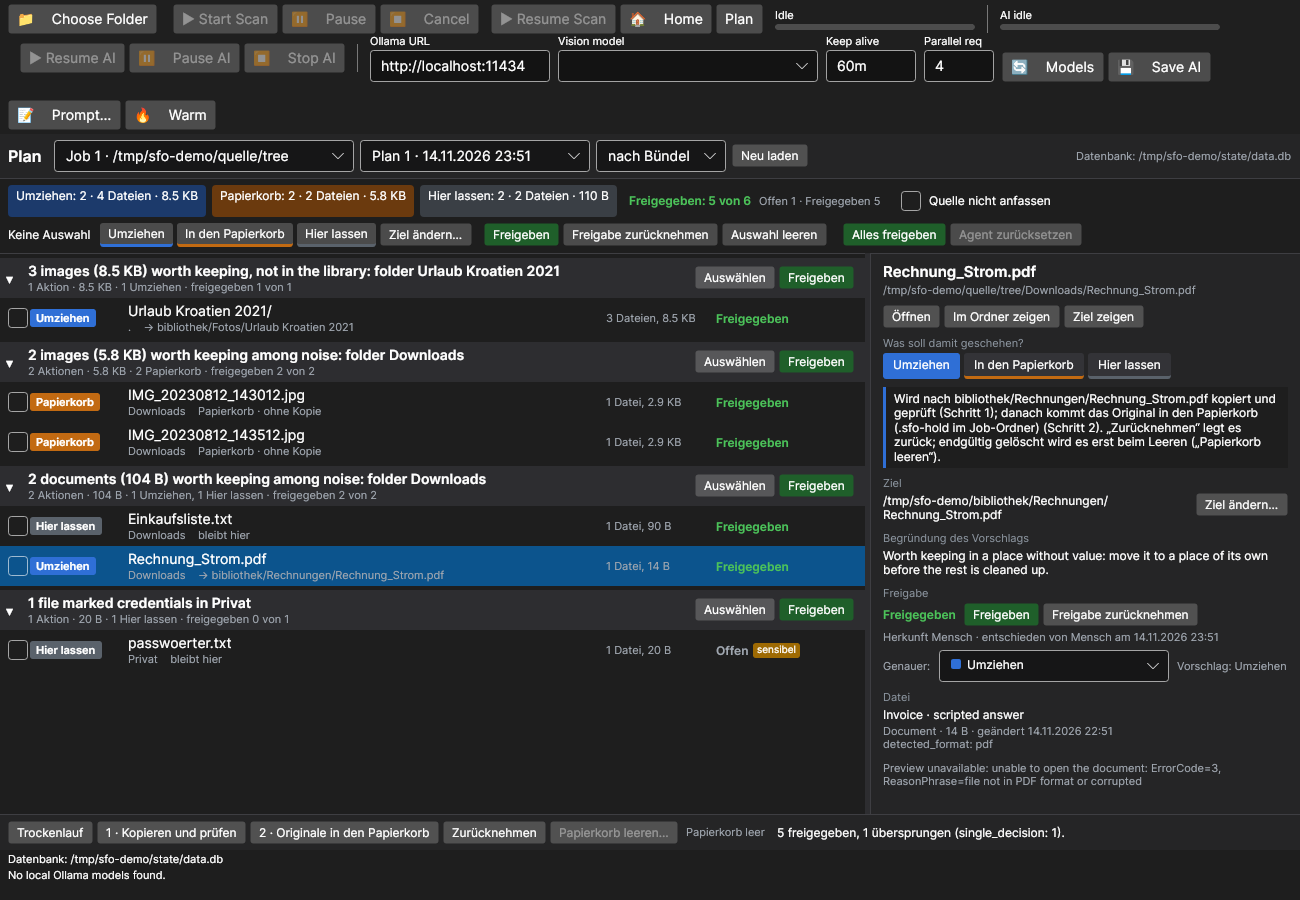
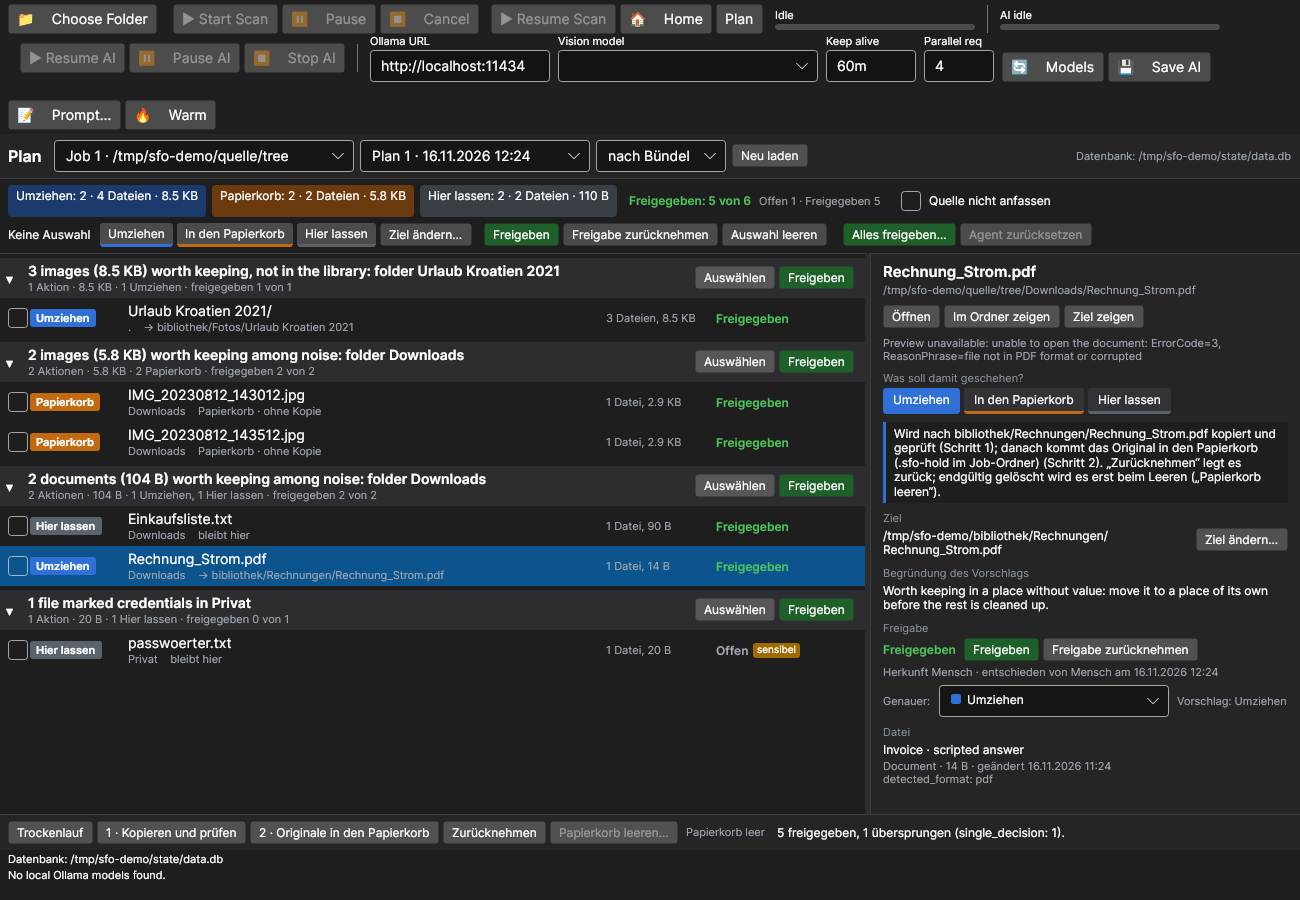
Docs: preview format table, why no built-in player, screenshots of #109
The format table says what each format shows and what it needs, so the
next reader does not have to read PreviewFormats to know why a file has
no preview. The player decision records the measured package sizes it
rests on. The screenshots of the plan view are taken again because the
preview moved up under "Öffnen".

Refs #109

diff --git a/docs/architecture.md b/docs/architecture.md
@@ -98,12 +98,37 @@ Other options: `AppSettingsDirectory` (where the shipped `appsettings.json` defa
 
 ## Preview flow
 
-`FileContentExtractor` (Infrastructure) reads the content once, without UI types; `FilePreviewService` (Desktop) only decodes the returned image bytes into an Avalonia bitmap. Preview and model input therefore come from the same code.
+`FileContentExtractor` (Infrastructure) reads the content once, without UI types; `FilePreviewService` (Desktop) only decodes the returned image bytes into Avalonia bitmaps and makes the filmstrip of a video. Preview and model input therefore come from the same code.
 
-- images: original file bytes
-- PDFs: page 1 rendered via Docnet/PDFium with a white background, encoded as PNG by a small built-in encoder
-- `.docx`, `.xlsx`, `.pptx`, `.odt`, `.ods`: text extracted from the package XML
-- text-like files: truncated text excerpt (12,000 characters)
+Which reader runs is decided by `PreviewFormats.Decide` (since 16.11.2026,
+[#109](https://github.com/crack666/smart_file_organizer/issues/109)): the format the first bytes show
+(`FileSignature`, the code behind the fact `detected_format`) where it decides, else a complete extension list. A
+decodable image format wins over the extension; a ZIP or OLE container goes by its extension (a `.docx` is a ZIP).
+Until then the scan type of the extension and a short list decided, so `.jfif` (no image type), `.doc` (no reader),
+`.rtf`, `.odp`, `.docm`/`.xlsm`/`.pptm` and archives got the line "No built-in preview for this file type yet".
+
+| Format | Preview | Needs |
+|---|---|---|
+| JPEG (`.jpg` `.jpeg` `.jpe` `.jfif`), PNG, GIF (first frame), BMP, WebP, ICO | the image | nothing |
+| TIFF, HEIC/HEIF, AVIF, camera raw (`.cr2` `.nef` `.arw` `.dng` …), PSD | hint "Kein Bild: … kann die Vorschau nicht zeichnen" and "Öffnen" | the default program |
+| PDF | page 1 rendered | PDFium (Docnet.Core, shipped) |
+| `.docx` `.docm` `.xlsx` `.xlsm` `.pptx` `.pptm` `.odt` `.ods` `.odp` | text from the package XML | nothing |
+| `.doc` `.dot` (Word 97-2003) | text from the piece table (`LegacyWordReader`), no pictures or layout; encrypted or damaged: hint | nothing; files up to 64 MB |
+| `.xls` `.ppt` `.pps` `.msg` (other legacy Office) | hint "altes Office-Format … wird nicht gelesen" and "Öffnen" | the default program |
+| `.rtf` (and RTF saved as `.doc`) | text without control words (`RtfText`) | nothing |
+| text: `.txt` `.text` `.md` `.nfo` `.log` `.csv` `.tsv` `.json` `.xml` `.ini` `.toml` `.srt` `.vtt` `.svg` source code … and any file whose first bytes are text | the first 12,000 characters | nothing |
+| ZIP, RAR, 7z, TAR (`.zip` `.cbz` `.rar` `.7z` `.tar`) | the names and sizes of the first 200 entries, nothing unpacked | nothing (SharpCompress, shipped) |
+| `.gz` `.tgz` `.bz2` `.xz` | hint: the contents exist only after unpacking | – |
+| video | filmstrip of up to 9 pictures with time marks, kind and origin from the facts, "Abspielen" | `ffmpeg` on the PATH for the pictures; without it a hint and "Abspielen" |
+| audio | duration and tags from the facts, "Abspielen" | the default program |
+| anything else | hint "Keine Vorschau für …" and "Öffnen" | the default program |
+
+A file with an access-data marker shows no preview and no excerpt at all (the rule of `Sensitive:Disclosure`).
+
+The filmstrip (`FilePreviewService.FilmstripPositions`): the running time is split into equal parts, at most nine and
+one per second for a short video, and one picture 320 px wide is taken in the middle of each by `ffmpeg`, in the
+background; choosing another row cancels it. The pictures are kept per file (path, size, time of change) under
+`<temp>/SmartFileOrganizer/preview-cache/filmstrip/`, at most 300 strips, never beside the file or in a library.
 
 ## Comparison flow (source against library)
 

diff --git a/docs/status-and-roadmap.md b/docs/status-and-roadmap.md
@@ -208,7 +208,8 @@ yet against a real Ollama restart.
   folder`), with the inbox folder and "Neuer Ordner hier"; `PlanService` and
   its checks decide, a refused target keeps the picker open with the reason.
   Videos get one still frame when `ffmpeg` is on the PATH (the extractor of
-  the analysis), video and audio their key facts in large type.
+  the analysis), video and audio their key facts in large type (since #109
+  a filmstrip, below).
   _Checked 14.11.2026: `SmartFileOrganizer.Desktop.Tests` 17 passed on Windows
   and on Linux (Avalonia headless), one pass rendered
   ([screenshots](images/01-plan-agent.png)); the real window was not driven by
@@ -231,6 +232,29 @@ yet against a real Ollama restart.
   of "Papierkorb leeren" ([screenshot](images/09-confirm-empty-bin.png)); the
   real window was not driven by hand._ Limits: a discarded file that was purged cannot be put
   back; an older build that rewrites a move notice drops its `removed` lines.
+- Plan view preview: filmstrip, "Abspielen", more formats, "Alles freigeben"
+  explained (since 16.11.2026,
+  [#109](https://github.com/crack666/smart_file_organizer/issues/109)). Until
+  then a video showed one still, `.jfif` and `.doc` (and `.rtf`, `.odp`,
+  archives) showed "No built-in preview", and "Alles freigeben" released at
+  once. Now the preview stands right under "Öffnen": a video gets up to nine
+  pictures with time marks (three by three, made by `ffmpeg` in the
+  background, cached under the temp folder of the application), its kind and
+  origin from the facts, and "Abspielen" (default program; also Enter or a
+  double click in the list, Ctrl+P). Without `ffmpeg` a hint names it. Audio
+  gets "Abspielen" beside duration and tags. The reader is chosen from the
+  first bytes, then a full extension list
+  ([format table](architecture.md#preview-flow)). "Alles freigeben…" asks
+  with the counts as set (move, bin, stay) and says no outcome is changed.
+  No player is built in ([why](engineering-decisions.md#no-video-player-in-the-gui)).
+  _Checked 16.11.2026: `dotnet test` 1,188 passed and 2 skipped on Windows,
+  1,190 passed on Linux, `SmartFileOrganizer.Desktop.Tests` 33 of them
+  (Avalonia headless), both with `ffmpeg` on the PATH; the case without it is
+  forced in the tests. Preview rendered headless
+  ([screenshot](images/10-video-filmstrip.png)); the real window was not
+  driven by hand._ Limits: `.xls`/`.ppt` show a hint only;
+  TIFF, HEIC and raw images are not drawn; the analysis does not read `.doc`
+  text yet (only the preview does).
 
 ### Command line
 

diff --git a/docs/engineering-decisions.md b/docs/engineering-decisions.md
@@ -86,7 +86,19 @@ for the 12,000 characters the model sees; a spreadsheet whose single sheet unpac
 
 Video still frames come from `ffmpeg` if it is found on the `PATH` (`VideoFrameExtractor`). It is not a dependency
 and not shipped: without it videos get their container metadata only, and the evidence tells the model that frames
-are missing. Each call has a 30 s timeout and reads one frame, scaled to 768 px width.
+are missing. Each call has a 30 s timeout and reads one frame, scaled to 768 px width (the GUI filmstrip: 320 px).
+
+### No video player in the GUI
+
+Decided 16.11.2026 ([#109](https://github.com/crack666/smart_file_organizer/issues/109)). To judge whether a video is
+clutter, the plan view shows a filmstrip of up to nine pictures through the same optional `ffmpeg`, and "Abspielen"
+hands the file to the default program of the system. A player inside the window was weighed and left out: the usual
+option for Avalonia is LibVLCSharp, whose managed part is small (`LibVLCSharp` 3.10.2: 2.8 MB, `LibVLCSharp.Avalonia`:
+41 KB as NuGet packages), but it needs the native VLC engine: `VideoLAN.LibVLC.Windows` 3.0.24 is a 145 MB NuGet package
+(x86 and x64 plugins), measured 16.11.2026 from the Content-Length of nuget.org; on Linux and macOS it comes from the
+system or a separate package. That is a second, native code base with its own codecs and security updates to ship and
+keep up with on three platforms, for a view in which a person mostly needs a glance. The default program plays every
+format the person already uses.
 
 ## System.CommandLine for the CLI
 
